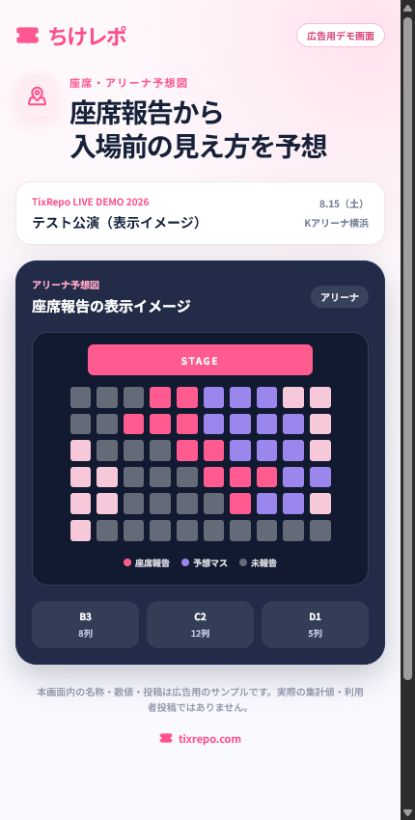
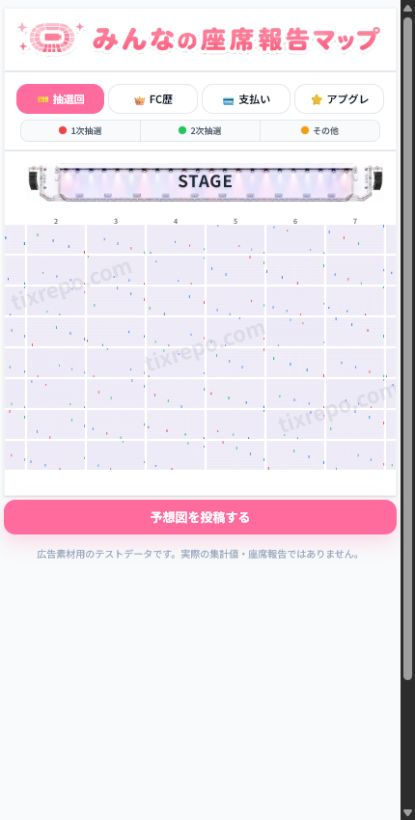
fix: capture ad demos from real components

diff --git a/src/app/preview/ad-demo/page.tsx b/src/app/preview/ad-demo/page.tsx
@@ -1,215 +1,10 @@
 import type { Metadata } from "next";
-import type { ReactNode } from "react";
-import {
-  BarChart3,
-  ChevronRight,
-  LockKeyhole,
-  MapPinned,
-  MessageCircleHeart,
-  Sparkles,
-  Ticket,
-} from "lucide-react";
+import AdDemoClient from "./AdDemoClient";
 
 export const metadata: Metadata = {
-  title: "広告用デモ画面｜ちけレポ",
+  title: "広告素材用テスト画面｜ちけレポ",
   robots: { index: false, follow: false },
 };
-
-type Creative = "ticket" | "arena" | "report";
-
-const CREATIVE_COPY: Record<Creative, { eyebrow: string; title: ReactNode; icon: ReactNode }> = {
-  ticket: {
-    eyebrow: "当落レポ",
-    title: <>当選の傾向を<br />公演ごとに見える化</>,
-    icon: <BarChart3 size={21} strokeWidth={2.3} />,
-  },
-  arena: {
-    eyebrow: "座席・アリーナ予想図",
-    title: <>座席報告から<br />入場前の見え方を予想</>,
-    icon: <MapPinned size={21} strokeWidth={2.3} />,
-  },
-  report: {
-    eyebrow: "現地レポ",
-    title: <>終演後のひとことが<br />次の参戦のヒントに</>,
-    icon: <MessageCircleHeart size={21} strokeWidth={2.3} />,
-  },
-};
-
-function DemoHeader({ creative }: { creative: Creative }) {
-  const copy = CREATIVE_COPY[creative];
-  return (
-    <>
-      <div className="flex items-center justify-between">
-        <div className="flex items-center gap-2 text-[#ff5791]">
-          <Ticket size={25} fill="currentColor" strokeWidth={1.7} />
-          <span className="text-[22px] font-extrabold tracking-[-0.08em] text-[#ff4f8b]">ちけレポ</span>
-        </div>
-        <span className="rounded-full border border-[#f8bfd4] bg-white px-2.5 py-1 text-[10px] font-bold text-[#d9487c]">
-          広告用デモ画面
-        </span>
-      </div>
-      <div className="mt-6 flex items-start gap-3">
-        <div className="flex h-11 w-11 shrink-0 items-center justify-center rounded-2xl bg-[#ffedf4] text-[#ff4f8b] shadow-[0_7px_18px_rgba(255,79,139,0.13)]">
-          {copy.icon}
-        </div>
-        <div>
-          <p className="text-[11px] font-bold tracking-[0.12em] text-[#ff5791]">{copy.eyebrow}</p>
-          <h1 className="mt-1 text-[28px] font-extrabold leading-[1.25] tracking-[-0.05em] text-[#17213a]">{copy.title}</h1>
-        </div>
-      </div>
-    </>
-  );
-}
-
-function EventChip() {
-  return (
-    <div className="mt-5 rounded-2xl border border-[#f1e6eb] bg-white px-4 py-3 shadow-[0_8px_26px_rgba(67,31,48,0.06)]">
-      <div className="flex items-start justify-between gap-3">
-        <div>
-          <p className="text-[10px] font-bold text-[#ff4f8b]">TixRepo LIVE DEMO 2026</p>
-          <p className="mt-1 text-[14px] font-extrabold text-[#18233e]">テスト公演（表示イメージ）</p>
-        </div>
-        <div className="shrink-0 text-right text-[10px] font-bold leading-5 text-[#77809a]">
-          8.15（土）<br />Kアリーナ横浜
-        </div>
-      </div>
-    </div>
-  );
-}
-
-function TicketCreative() {
-  const rows = [
-    { label: "FC先行", detail: "1枚申込", rate: "48%", width: "w-[48%]", color: "bg-[#ff6398]" },
-    { label: "FC先行", detail: "2枚申込", rate: "31%", width: "w-[31%]", color: "bg-[#ff99bc]" },
-    { label: "一般販売", detail: "指定席", rate: "18%", width: "w-[18%]", color: "bg-[#9a86ed]" },
-  ];
-  return (
-    <>
-      <EventChip />
-      <section className="mt-4 rounded-[22px] border border-[#f1e6eb] bg-white p-4 shadow-[0_10px_30px_rgba(67,31,48,0.07)]">
-        <div className="flex items-center justify-between">
-          <div className="flex items-center gap-2">
-            <span className="rounded-lg bg-[#ffedf4] px-2 py-1 text-[10px] font-extrabold text-[#ef3f7d]">当選傾向</span>
-            <span className="text-[11px] font-bold text-[#43506b]">条件ごとに見比べる</span>
-          </div>
-          <span className="text-[10px] font-bold text-[#98a1b5]">集計イメージ</span>
-        </div>
-        <div className="mt-4 grid grid-cols-3 gap-2">
-          <div className="rounded-xl bg-[#fff4f8] p-2.5 text-center">
-            <p className="text-[9px] font-bold text-[#a56b82]">当選</p>
-            <p className="mt-1 text-[22px] font-extrabold leading-none text-[#ff4f8b]">48<span className="ml-0.5 text-[12px]">%</span></p>
-          </div>
-          <div className="rounded-xl bg-[#f6f3ff] p-2.5 text-center">
-            <p className="text-[9px] font-bold text-[#7767ba]">落選</p>
-            <p className="mt-1 text-[22px] font-extrabold leading-none text-[#7965dd]">52<span className="ml-0.5 text-[12px]">%</span></p>
-          </div>
-          <div className="rounded-xl bg-[#f7f8fc] p-2.5 text-center">
-            <p className="text-[9px] font-bold text-[#768098]">報告例</p>
-            <p className="mt-1 text-[22px] font-extrabold leading-none text-[#33415d]">126<span className="ml-0.5 text-[12px]">件</span></p>
-          </div>
-        </div>
-        <div className="mt-5 space-y-3">
-          {rows.map((row) => (
-            <div key={row.label + row.detail}>
-              <div className="flex items-center justify-between text-[11px]">
-                <p className="font-bold text-[#27314a]">{row.label}<span className="ml-1.5 font-medium text-[#8b94a8]">{row.detail}</span></p>
-                <p className="font-extrabold text-[#2e3852]">{row.rate}</p>
-              </div>
-              <div className="mt-1.5 h-2 overflow-hidden rounded-full bg-[#f0f2f7]">
-                <div className={`h-full rounded-full ${row.width} ${row.color}`} />
-              </div>
-            </div>
-          ))}
-        </div>
-        <div className="mt-5 flex items-center gap-2 rounded-xl border border-[#f5d5e2] bg-[#fff8fb] px-3 py-2.5">
-          <LockKeyhole size={15} className="shrink-0 text-[#ff4f8b]" />
-          <p className="text-[10px] font-bold leading-4 text-[#525f78]">申込条件ごとの比較は、詳細画面で確認</p>
-          <ChevronRight size={15} className="ml-auto shrink-0 text-[#ff4f8b]" />
-        </div>
-      </section>
-    </>
-  );
-}
-
-function ArenaCreative() {
-  const cells = Array.from({ length: 60 }, (_, index) => {
-    if ([3, 4, 12, 13, 14, 24, 25, 35, 36, 37, 46].includes(index)) return "bg-[#ff5b91]";
-    if ([5, 6, 7, 15, 16, 17, 18, 26, 27, 28, 38, 39, 47, 48].includes(index)) return "bg-[#9a86ed]";
-    if ([8, 9, 19, 20, 29, 30, 31, 40, 41, 49, 50].includes(index)) return "bg-[#f7c7da]";
-    return "bg-white/35";
-  });
-  return (
-    <>
-      <EventChip />
-      <section className="mt-4 rounded-[22px] border border-[#273458] bg-[#222c48] p-4 shadow-[0_13px_32px_rgba(28,34,59,0.22)]">
-        <div className="flex items-center justify-between text-white">
-          <div>
-            <p className="text-[10px] font-bold text-[#ffa5c5]">アリーナ予想図</p>
-            <p className="mt-1 text-[15px] font-extrabold">座席報告の表示イメージ</p>
-          </div>
-          <span className="rounded-full bg-white/10 px-2.5 py-1 text-[10px] font-bold text-white/85">アリーナ</span>
-        </div>
-        <div className="mt-4 rounded-[16px] border border-white/15 bg-[#111a30] px-3 pb-4 pt-3">
-          <div className="mx-auto flex h-8 w-[72%] items-center justify-center rounded-md bg-[#ff5b91] text-[10px] font-extrabold tracking-[0.16em] text-white">STAGE</div>
-          <div className="mx-auto mt-3 grid max-w-[270px] grid-cols-10 gap-1.5">
-            {cells.map((cell, index) => <span key={index} className={`aspect-square rounded-[3px] ${cell}`} />)}
-          </div>
-          <div className="mt-4 flex flex-wrap justify-center gap-x-3 gap-y-1.5 text-[9px] font-bold text-white/85">
-            <span className="flex items-center gap-1"><i className="h-2 w-2 rounded-sm bg-[#ff5b91]" />座席報告</span>
-            <span className="flex items-center gap-1"><i className="h-2 w-2 rounded-sm bg-[#9a86ed]" />予想マス</span>
-            <span className="flex items-center gap-1"><i className="h-2 w-2 rounded-sm bg-white/35" />未報告</span>
-          </div>
-        </div>
-        <div className="mt-4 grid grid-cols-3 gap-2">
-          {[["B3", "8列"], ["C2", "12列"], ["D1", "5列"]].map(([block, row]) => (
-            <div key={block} className="rounded-xl bg-white/8 p-2 text-center">
-              <p className="text-[10px] font-extrabold text-white">{block}</p>
-              <p className="mt-1 text-[9px] font-bold text-[#bfc8e6]">{row}</p>
-            </div>
-          ))}
-        </div>
-      </section>
-    </>
-  );
-}
-
-function ReportCreative() {
-  const reports = [
-    { type: "座席レポ", className: "bg-[#f0eaff] text-[#7459cc]", title: "アリーナ B3・8列目", detail: "座席位置と見え方を残せます" },
-    { type: "現地レポ", className: "bg-[#fff0e5] text-[#e57c34]", title: "終演後の会場メモ", detail: "規制退場・混雑・演出の情報" },
-    { type: "当落レポ", className: "bg-[#ffebf2] text-[#ed4a82]", title: "申込結果のメモ", detail: "申込条件と結果をまとめて確認" },
-  ];
-  return (
-    <>
-      <EventChip />
-      <section className="mt-4 overflow-hidden rounded-[22px] border border-[#f1e6eb] bg-white shadow-[0_10px_30px_rgba(67,31,48,0.07)]">
-        <div className="flex items-center justify-between border-b border-[#f2edf0] px-4 py-3.5">
-          <div className="flex items-center gap-2">
-            <Sparkles size={17} className="text-[#ff4f8b]" />
-            <p className="text-[14px] font-extrabold text-[#24304a]">みんなのレポ</p>
-          </div>
-          <span className="text-[10px] font-bold text-[#ff4f8b]">投稿画面へ</span>
-        </div>
-        <div className="divide-y divide-[#f2edf0] px-4">
-          {reports.map((report) => (
-            <article key={report.type} className="py-3.5">
-              <div className="flex items-center justify-between gap-2">
-                <span className={`rounded-md px-2 py-1 text-[10px] font-extrabold ${report.className}`}>{report.type}</span>
-                <span className="text-[10px] font-bold text-[#9ca4b4]">表示イメージ</span>
-              </div>
-              <p className="mt-2 text-[14px] font-extrabold text-[#23304b]">{report.title}</p>
-              <p className="mt-1 text-[11px] font-medium text-[#7e889d]">{report.detail}</p>
-            </article>
-          ))}
-        </div>
-        <div className="m-3 rounded-2xl bg-gradient-to-r from-[#ff5b91] to-[#fc82ad] px-4 py-3 text-white shadow-[0_8px_18px_rgba(255,91,145,0.22)]">
-          <p className="text-[12px] font-extrabold">写真がなくても、ひとことから。</p>
-          <p className="mt-1 text-[10px] font-medium text-white/85">次に行く人の役に立つ情報を残せます</p>
-        </div>
-      </section>
-    </>
-  );
-}
 
 export default async function AdDemoPage({
   searchParams,
@@ -217,21 +12,5 @@ export default async function AdDemoPage({
   searchParams: Promise<{ card?: string }>;
 }) {
   const { card } = await searchParams;
-  const creative: Creative = card === "arena" || card === "report" ? card : "ticket";
-
-  return (
-    <main className="min-h-screen bg-[radial-gradient(circle_at_92%_4%,#ffe3ef_0,transparent_28%),linear-gradient(180deg,#fff8fb_0%,#f8f9ff_100%)] px-4 pb-8 pt-5">
-      <DemoHeader creative={creative} />
-      {creative === "ticket" && <TicketCreative />}
-      {creative === "arena" && <ArenaCreative />}
-      {creative === "report" && <ReportCreative />}
-      <p className="mx-auto mt-5 max-w-[340px] text-center text-[10px] font-medium leading-4 text-[#8b94a8]">
-        本画面内の名称・数値・投稿は広告用のサンプルです。実際の集計値・利用者投稿ではありません。
-      </p>
-      <div className="mt-4 flex items-center justify-center gap-1.5 text-[11px] font-extrabold text-[#ff4f8b]">
-        <Ticket size={14} fill="currentColor" strokeWidth={1.7} />
-        tixrepo.com
-      </div>
-    </main>
-  );
+  return <AdDemoClient initialCard={card === "map" ? "map" : "trend"} />;
 }

diff --git a/src/app/preview/ad-demo/AdDemoClient.tsx b/src/app/preview/ad-demo/AdDemoClient.tsx
@@ -1,0 +1,100 @@
+"use client";
+
+import MapPreviewSection from "@/components/artist-page/MapPreviewSection";
+import TrendSection from "@/components/artist-page/TrendSection";
+import {
+  computeArenaDetailStats,
+  computeTicketResultStats,
+  computeUpgradeDetailStats,
+} from "@/lib/artistPageStats";
+import type { TicketResultAnalytics } from "@/lib/artistPageTypes";
+import type { SeatReport } from "@/lib/types";
+
+type Card = "trend" | "map";
+
+const FC_HISTORIES = ["1年未満", "1〜3年", "3年以上"] as const;
+const LOTTERY_TYPES = ["1次抽選", "2次抽選", "その他"] as const;
+const PAYMENT_METHODS = ["クレカ", "その他"] as const;
+const MAP_LOTTERIES = ["fc1", "fc2", "general", "upgrade"] as const;
+
+function makeTicketRows(): TicketResultAnalytics[] {
+  return Array.from({ length: 180 }, (_, index) => {
+    const isWon = index % 7 !== 0 && index % 11 !== 0;
+    const upgradeResult =
+      index % 5 === 0 ? (index % 10 === 0 ? "applied_won" : "applied_lost") : "not_applied";
+
+    return {
+      id: `ad-ticket-${index + 1}`,
+      event_id: "ad-demo-event",
+      user_id: null,
+      result: isWon ? "won" : "lost",
+      lost_application_count: isWon ? 0 : index % 3 === 0 ? 2 : 1,
+      ticket_count: (index % 4) + 1,
+      lottery_type: LOTTERY_TYPES[index % LOTTERY_TYPES.length],
+      fc_history: FC_HISTORIES[index % FC_HISTORIES.length],
+      payment_method: PAYMENT_METHODS[index % PAYMENT_METHODS.length],
+      seat_type: isWon ? (index % 5 <= 2 ? "arena" : "stand") : null,
+      upgrade_result: upgradeResult,
+      comment: null,
+      seat_block: null,
+      seat_row: null,
+      seat_number: null,
+      stand_direction: null,
+      stand_floor: null,
+      other_seat_info: null,
+      created_at: "2026-08-03T00:00:00.000Z",
+    };
+  });
+}
+
+function makeMapReports(): SeatReport[] {
+  const blocks = Array.from(
+    { length: 64 },
+    (_, index) => `${String.fromCharCode(65 + Math.floor(index / 8))}${(index % 8) + 1}`,
+  );
+
+  return blocks.flatMap((block, blockIndex) =>
+    Array.from({ length: 4 }, (_, seatIndex) => ({
+      id: `ad-seat-${block}-${seatIndex + 1}`,
+      event_id: "ad-demo-event",
+      block,
+      row_num: ((blockIndex * 3 + seatIndex * 2) % 18) + 1,
+      seat_num: ((blockIndex * 11 + seatIndex * 17) % 80) + 1,
+      lottery_type: MAP_LOTTERIES[(blockIndex + seatIndex) % MAP_LOTTERIES.length],
+      lottery_round: seatIndex % 3 === 0 ? "1次抽選" : seatIndex % 3 === 1 ? "2次抽選" : "その他",
+      lottery_name: null,
+      payment_method: PAYMENT_METHODS[(blockIndex + seatIndex) % PAYMENT_METHODS.length],
+      fc_history: FC_HISTORIES[(blockIndex + seatIndex) % FC_HISTORIES.length],
+      comment: null,
+      created_at: "2026-08-03T00:00:00.000Z",
+    })),
+  );
+}
+
+const ticketRows = makeTicketRows();
+const mapReports = makeMapReports();
+const ticketStats = computeTicketResultStats(ticketRows);
+const arenaStats = computeArenaDetailStats(ticketRows);
+const upgradeStats = computeUpgradeDetailStats(ticketRows);
+
+export default function AdDemoClient({ initialCard }: { initialCard: Card }) {
+  return (
+    <main className="min-h-screen bg-[#f8fafc] px-1 pb-5 pt-2">
+      <div className="mx-auto w-full max-w-[430px]">
+        {initialCard === "trend" ? (
+          <TrendSection
+            title="全公演"
+            ticketStats={ticketStats}
+            arenaStats={arenaStats}
+            upgradeStats={upgradeStats}
+          />
+        ) : (
+          <MapPreviewSection mapEvent={{ id: "ad-demo-event", reports: mapReports }} />
+        )}
+        <p className="px-3 pt-3 text-center text-[10px] leading-4 text-slate-400">
+          広告素材用のテストデータです。実際の集計値・座席報告ではありません。
+        </p>
+      </div>
+    </main>
+  );
+}
